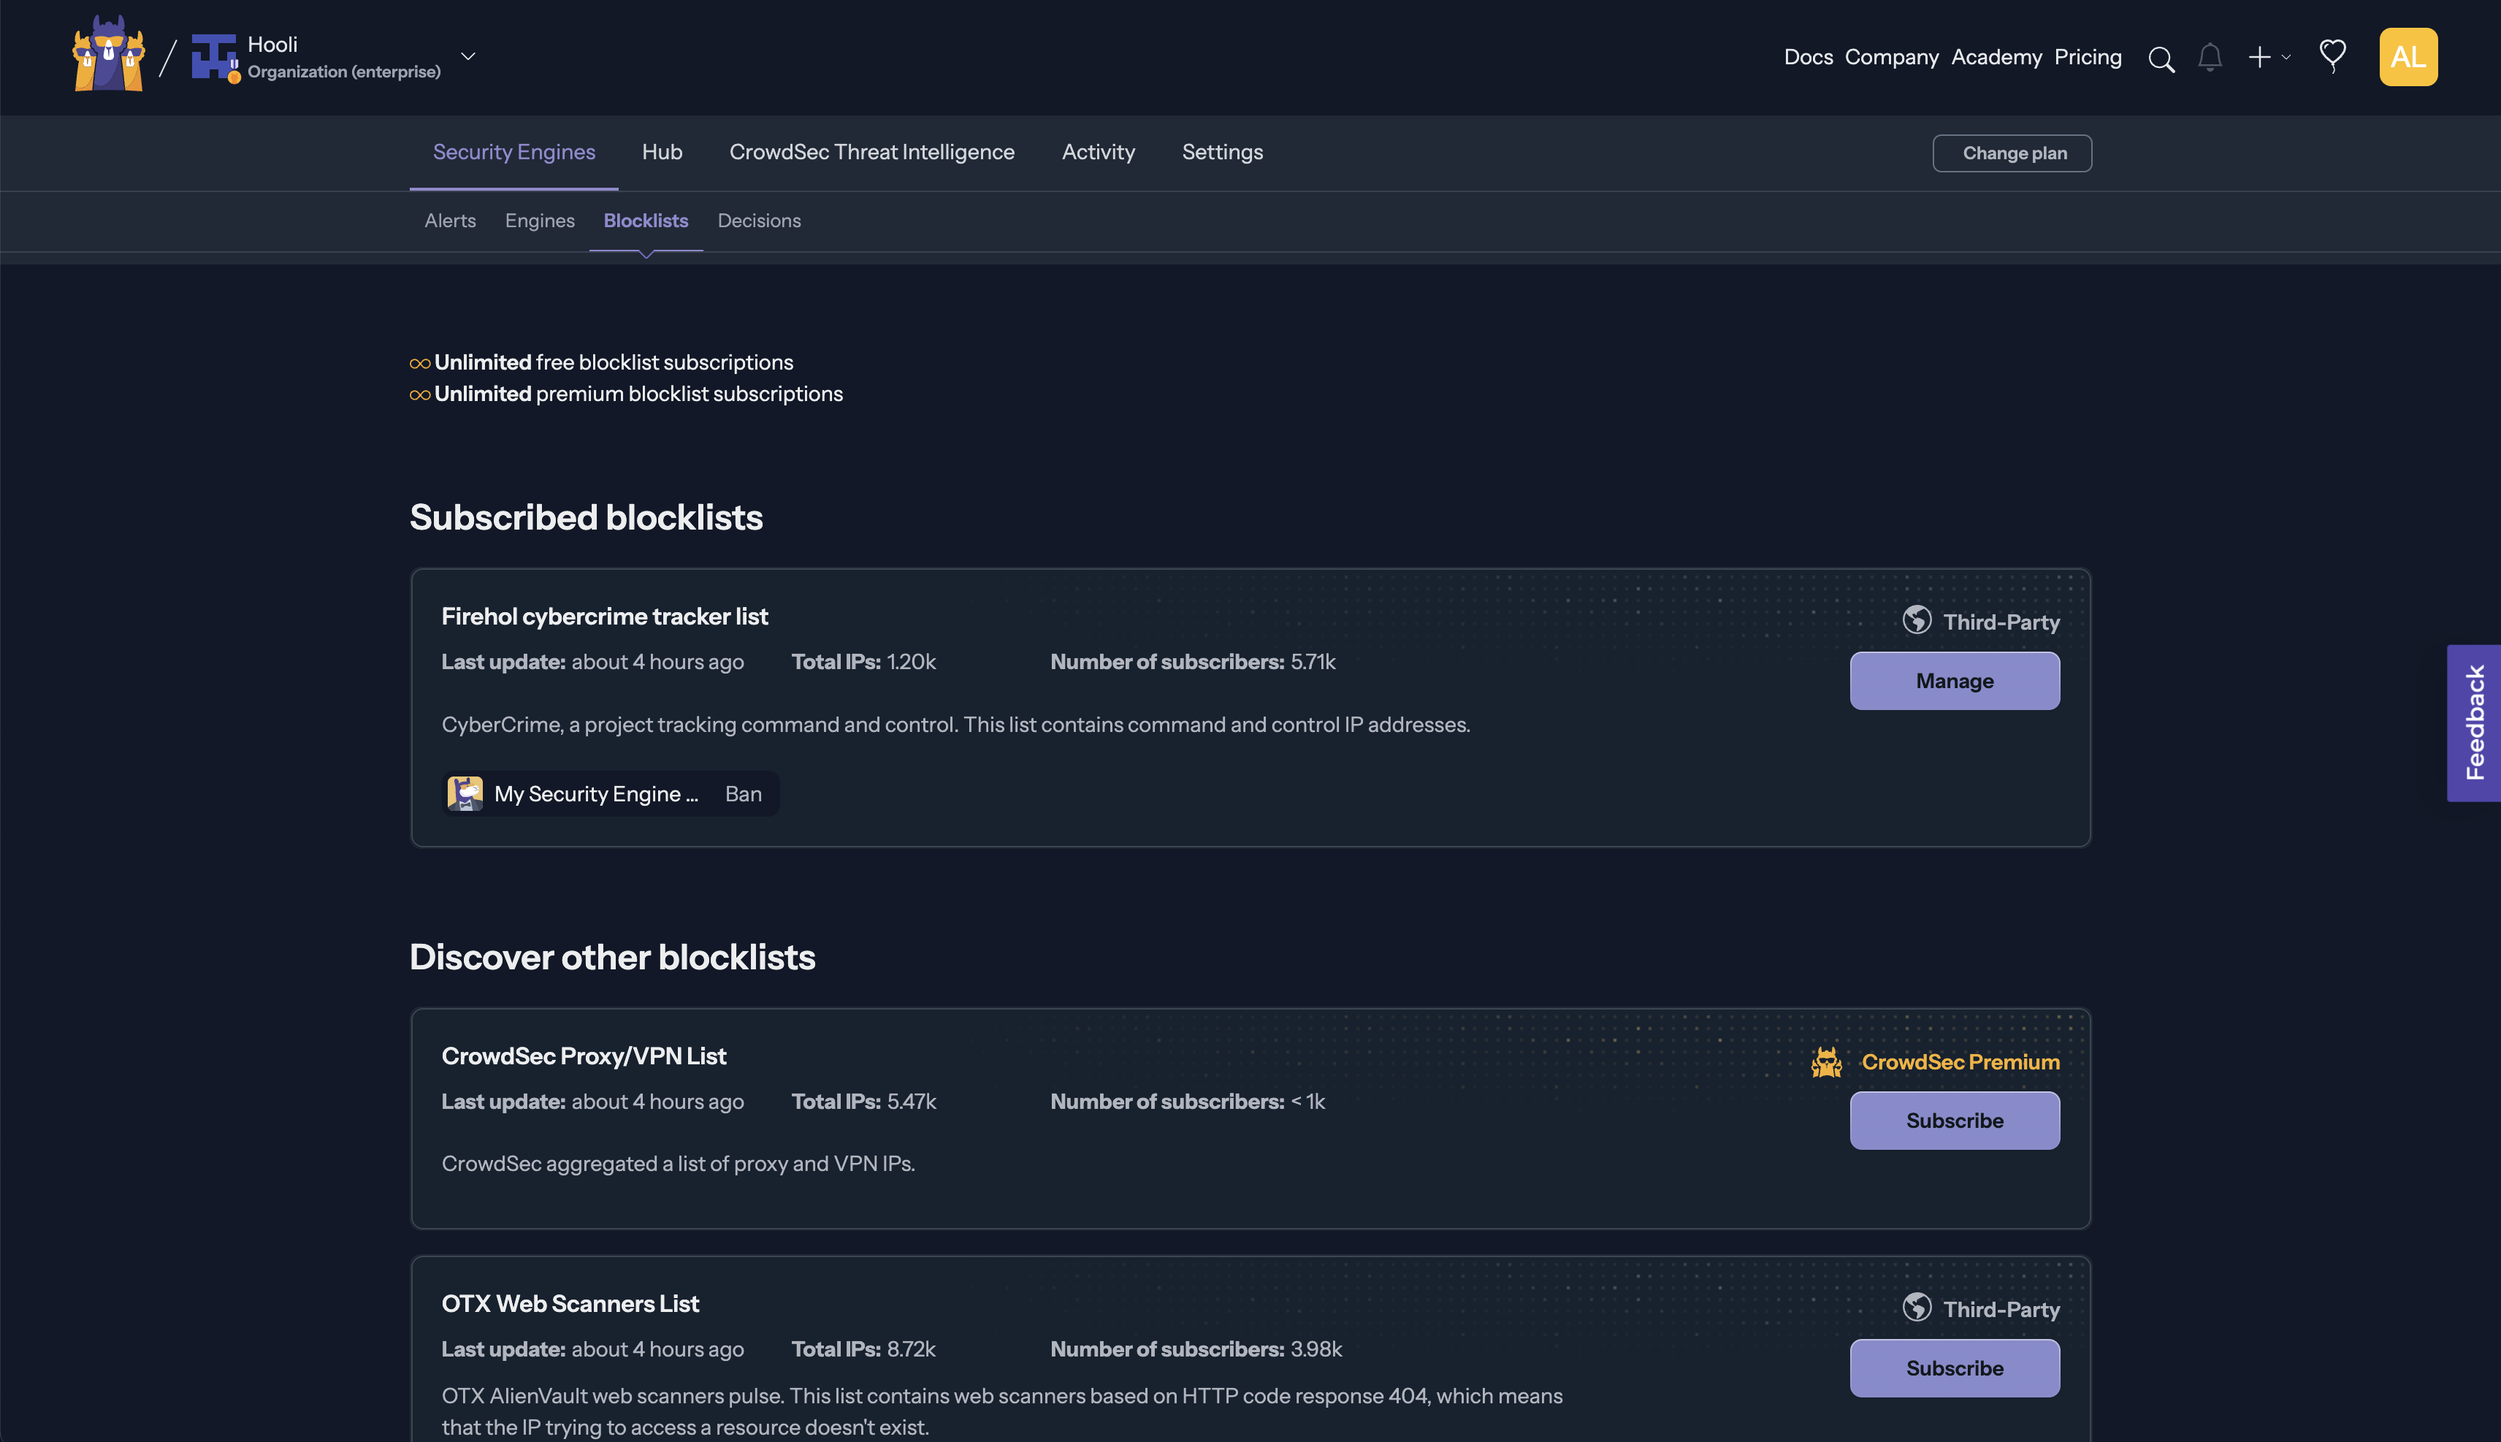
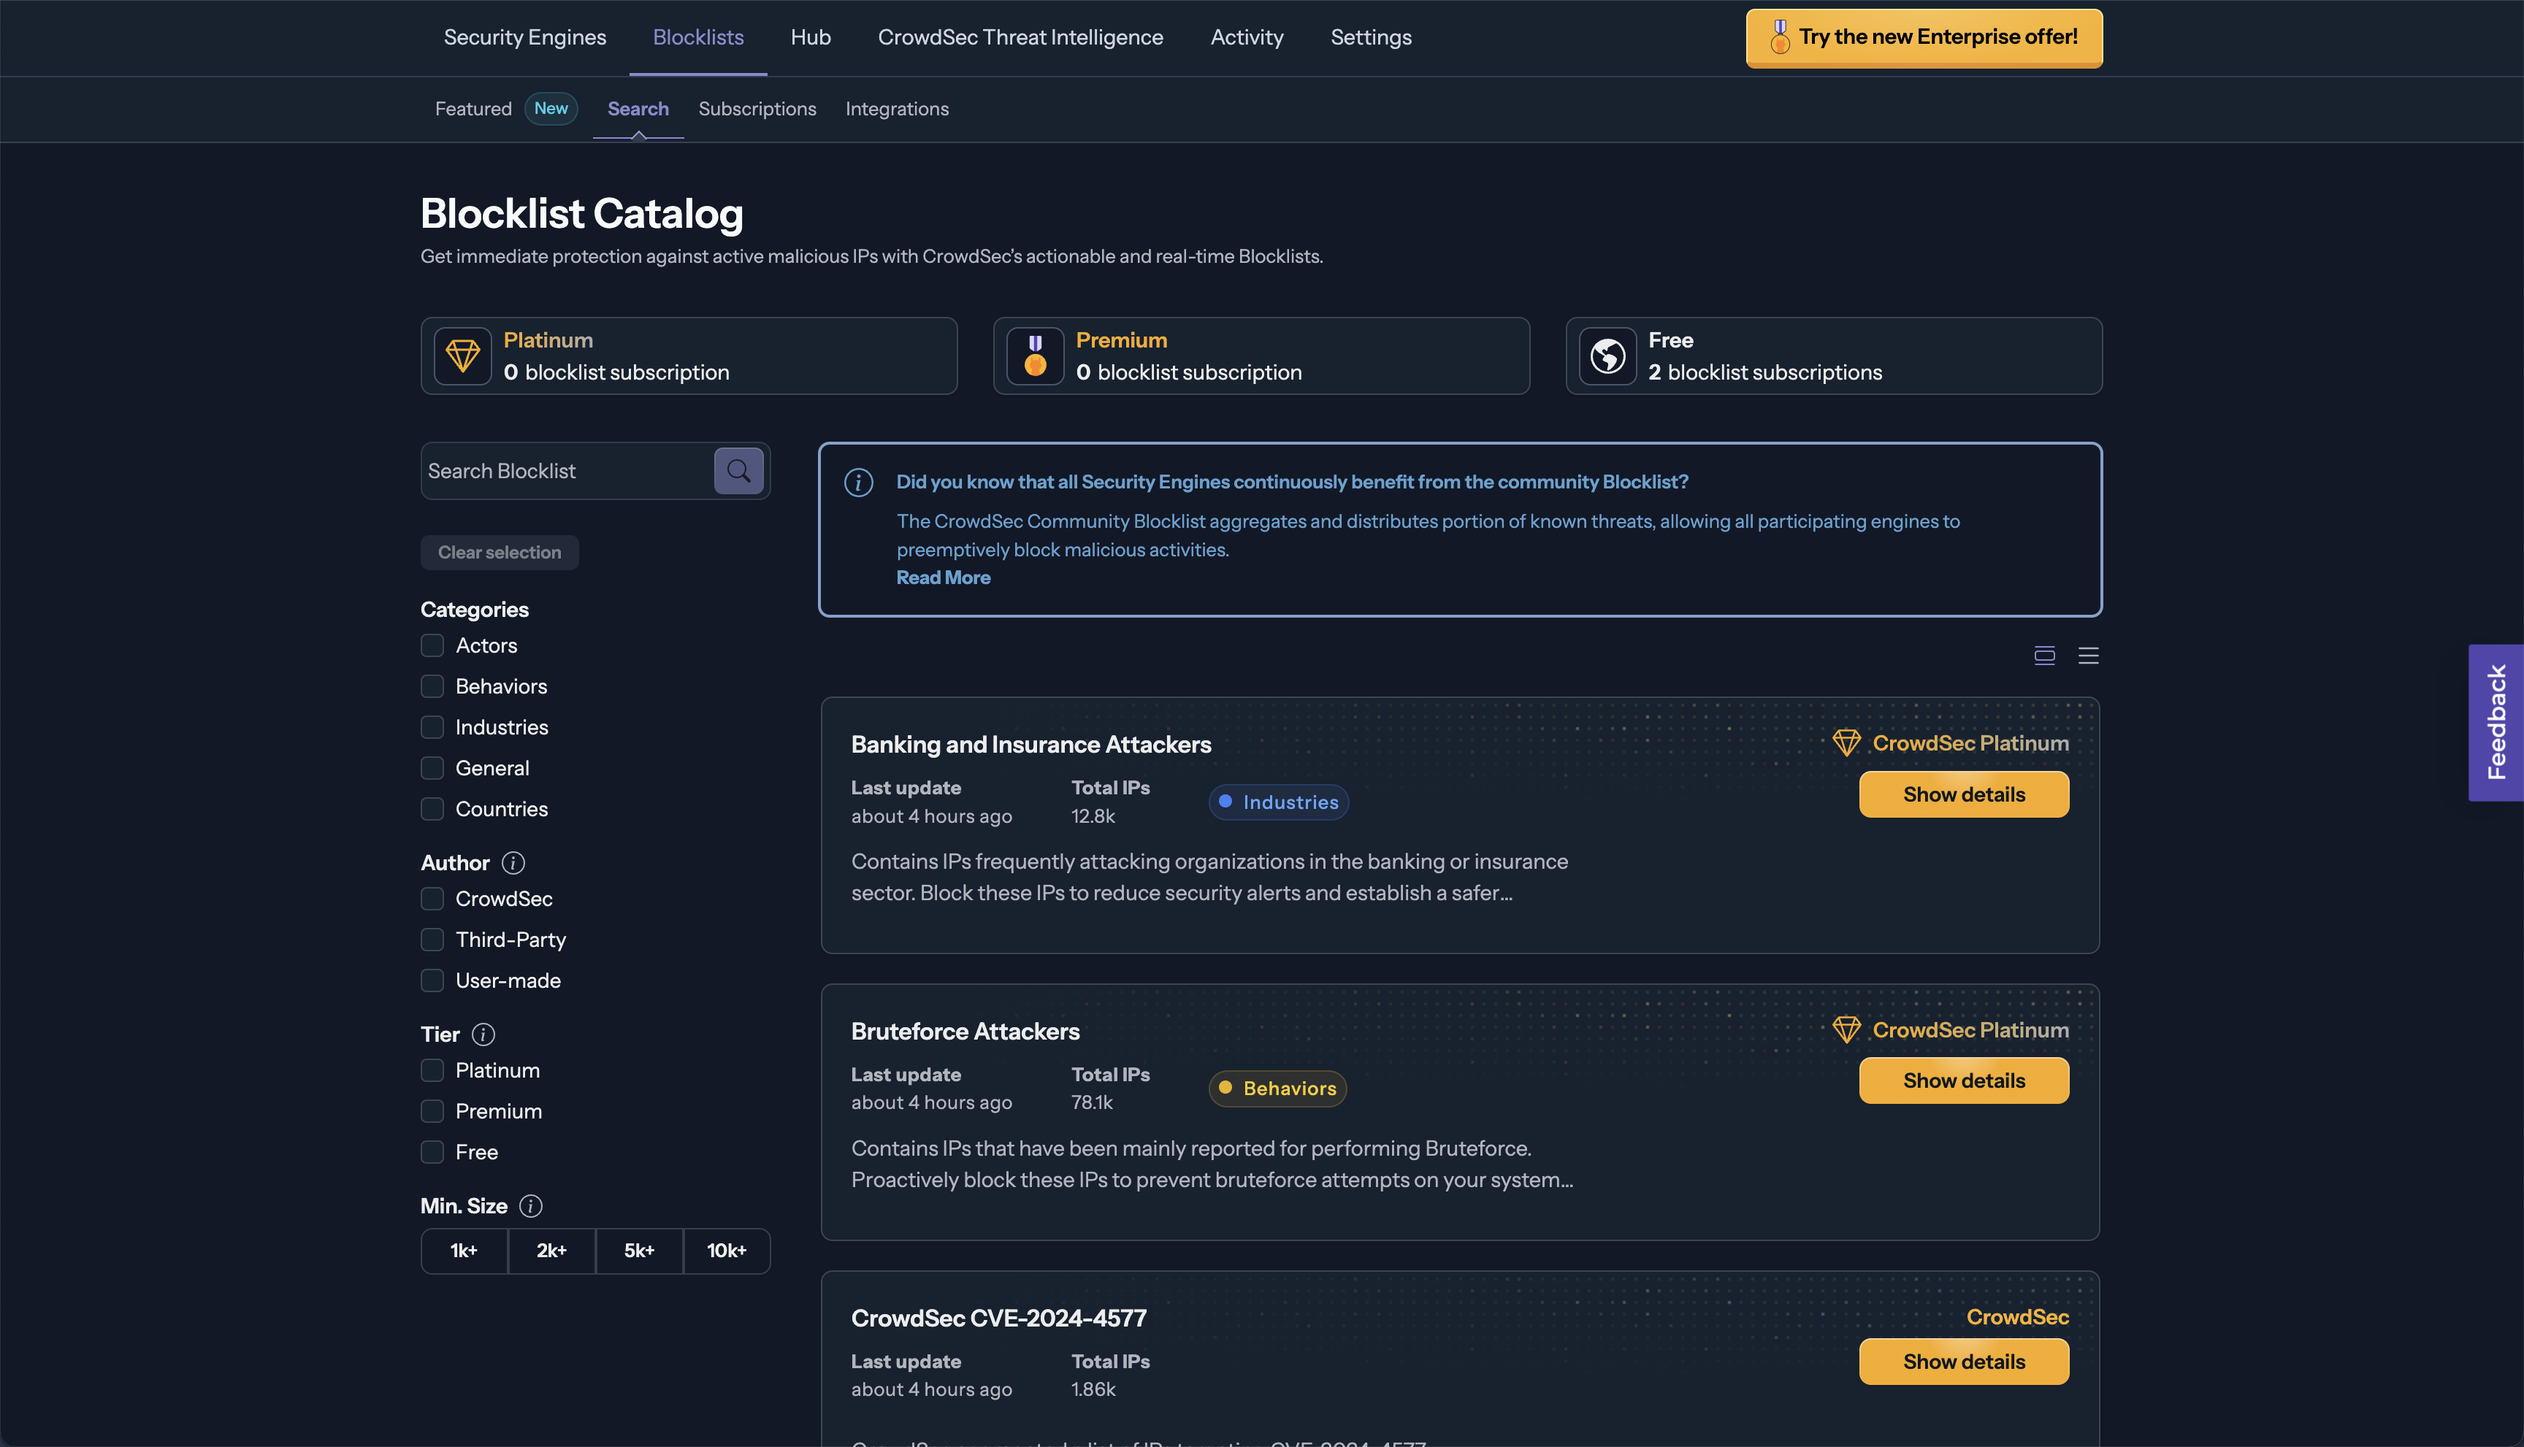
Update blocklist documentation

diff --git a/crowdsec-docs/sidebarsUnversioned.js b/crowdsec-docs/sidebarsUnversioned.js
@@ -353,6 +353,11 @@ module.exports = {
         },
         {
             type: "doc",
+            label: "Featured",
+            id: "console/blocklists/featured",
+        },
+        {
+            type: "doc",
             label: "Catalog",
             id: "console/blocklists/catalog",
         },

diff --git a/crowdsec-docs/unversioned/console/blocklists/catalog.md b/crowdsec-docs/unversioned/console/blocklists/catalog.md
@@ -1,17 +1,35 @@
 #  Blocklists catalog
 
 To provide blocklists tailored to each need, CrowdSec has a wide catalog of blocklists, encompassing a variety of threat types and sources. This diversity allows to select and implement blocklists that best match their specific security requirements.
+The search page in the CrowdSec Console provides a centralized interface to explore, subscribe, and manage blocklists tailored to enhance your organization’s security posture. This page allows to browse all available blocklists, find the ones most relevant to your needs, and activate them to protect your infrastructure.
+
 
 ![](/img/console/blocklists/catalog.png)
 
-The catalog is split into two distinct sections:
+The page is divided into several key sections, each serving a distinct purpose to simplify the process of managing blocklists:
 
-*   **The list of blocklists already installed on your infrastructure.**
+**Top Section: Available Subscription Types Overview**  
+This section displays the number of subscriptions remaining for the organization under each tier. 
 
-To review the infrastructure status at a glance, In the lower part of each item are listed the Security Engines subscribed to this blocklist, and the type of remediation applied to the IPs.
+![](/img/console/blocklists/blocklist-quotas.png)
 
-![](/img/console/blocklists/catalog_item_point_se_tag.png)
 
-*   **All the blocklists provided by CrowdSec**
+**Left Panel: Blocklist Search and Filters**  
+The left-hand panel is dedicated to the search engine, which allows you to efficiently browse and filter blocklists based on specific criteria.
+Using these filters helps you quickly locate blocklists that match your organization’s specific requirements.
+<div style={{textAlign:'center'}}>
+<img src="/img/console/blocklists/blocklist-search-filters.png" alt="Alt text for the image" width="200" height="400" />
+</div>
 
-Once a blocklist of interest has been spotted, clicking on the subscribe button will lead to the details page of this blocklist.
+
+
+**Main Section: Blocklist Results**
+The central area displays the blocklist results based on your search and filters. Each blocklist card provides key details.
+
+You can also toggle between Expanded Mode and Condensed Mode.
+
+![](/img/console/blocklists/blocklist-search-main.png)
+
+
+**Accessing Active Subscriptions**  
+To view and manage your active blocklist subscriptions, navigate to the Subscriptions menu in the Blocklists tab. This section provides an overview of all currently subscribed blocklists, allowing you to track and update your subscriptions as needed.

diff --git a/crowdsec-docs/unversioned/console/blocklists/featured.md b/crowdsec-docs/unversioned/console/blocklists/featured.md
@@ -1,0 +1,34 @@
+#  Featured Blocklists
+
+Featured Blocklists page advertises the best of what CrowdSec has to provide security wise to your organization.
+
+### Tailored Blocklist selection
+
+![](/img/console/Blocklists/tailored.png)
+
+CrowdSec's new Blocklist Suggestions feature leverages advanced AI technology to enhance your organization's cybersecurity measures. By analyzing signals shared by enrolled Security Engines, this feature identifies and recommends the most effective Blocklists to protect against specific types of attacks targeting your infrastructure.
+
+**Pre-requisites**  
+For an organization to benefit from the Blocklist Suggestions feature, the following pre-requisites must be met:
+
+* Security Engine must be enrolled in the CrowdSec ecosystem.
+* Security Engine must actively share signals with the CrowdSec network.
+
+**Feature Activation**  
+The feature is automatically enabled for all CrowdSec users who meet the pre-requisites. No manual configuration is required to start receiving suggestions.
+
+**Data Privacy and Usage**  
+All data is processed internally by CrowdSec, with no third-party access. Only CrowdSec-owned systems handle the signals, ensuring that your data remains secure and private.
+
+**Performance Metrics**  
+To help gauge the impact of these suggestions, an indicator in the Console shows the potential reduction in alerts you can expect after installing the recommended Blocklists. This allows you to see at a glance how much benefit each suggested Blocklist might provide.
+
+**Update Frequency**  
+The AI analysis runs on a daily basis. Any newly suggested Blocklists appear automatically in the Console, reflecting the most recent attack patterns observed in your organization.
+
+### Blocklist categorization
+
+![](/img/console/Blocklists/categories.png)
+
+Under the Blocklist suggestions, another section regroups many CrowdSec Blocklists, grouped into main categories addressing different security needs.
+These Blocklists are categorized to make it quick for users to navigate and identify the most relevant ones based on their infrastructure, industry, or attack patterns. By selecting the appropriate Blocklists, users can enhance their security defenses and proactively mitigate threats.
